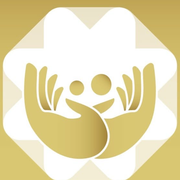
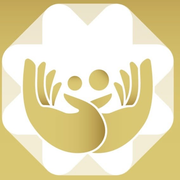
Ilustração oficial do logótipo em vez de recriação tipográfica
- Extraída a ilustração completa (símbolo + lettering original) do
  artwork de alta resolução, em duas variantes transparentes:
  branca para painéis dourados e dourada para fundos claros
- Hero mostra o artwork branco sobre o gradiente dourado — idêntico
  ao poster original da marca
- Footer e login usam a ilustração dourada, substituindo o lettering
  recriado tipograficamente
- Símbolo, favicon e apple-icon regenerados a partir da fonte
  de alta resolução
- Cartão "15 min" reposicionado para não sobrepor o nome

Claude-Session: https://claude.ai/code/session_01PeMQt7RPdpQtiDCUsibi7h

diff --git a/src/components/ui/Logo.tsx b/src/components/ui/Logo.tsx
@@ -1,6 +1,9 @@
 import Image from "next/image";
 import { cn } from "@/lib/utils";
 
+const LOCKUP_ALT =
+  "Clínica Marques dos Santos — Fisioterapia, Osteopatia e outras especialidades médicas";
+
 /** Símbolo oficial da marca — mãos que acolhem, branco sobre dourado. */
 export function LogoMark({ className }: { className?: string }) {
   return (
@@ -16,34 +19,32 @@ export function LogoMark({ className }: { className?: string }) {
 }
 
 /**
- * Lockup completo, recriado tipograficamente para ficar nítido em
- * qualquer fundo claro: símbolo + CLÍNICA + MARQUES DOS SANTOS + subtítulo.
+ * Ilustração oficial completa (símbolo + nome), extraída do artwork
+ * original — versão dourada para fundos claros.
  */
 export function LogoLockup({ className }: { className?: string }) {
   return (
-    <div className={cn("flex flex-col items-center text-center", className)}>
-      <LogoMark className="size-16 rounded-2xl shadow-soft" />
-      <p className="mt-5 text-sm font-light uppercase tracking-[0.5em] text-gold-600">
-        Clínica
-      </p>
-      <p className="mt-1 text-2xl font-bold uppercase tracking-[0.12em] text-gold-700">
-        Marques dos Santos
-      </p>
-      <p className="mt-1.5 text-[0.6rem] font-medium uppercase tracking-[0.18em] text-muted">
-        Fisioterapia, Osteopatia e outras especialidades médicas
-      </p>
-    </div>
+    <Image
+      src="/brand/lockup-tinted.png"
+      alt={LOCKUP_ALT}
+      width={900}
+      height={1018}
+      className={cn("h-auto w-64", className)}
+    />
   );
 }
 
-/** Artwork oficial completo (recorte do original), para painéis dourados. */
+/**
+ * Ilustração oficial completa em branco — para painéis dourados,
+ * onde as mãos ganham o dourado do fundo, como no artwork original.
+ */
 export function LogoArtwork({ className }: { className?: string }) {
   return (
     <Image
-      src="/brand/logo-lockup-gold.png"
-      alt="Clínica Marques dos Santos — Fisioterapia, Osteopatia e outras especialidades médicas"
-      width={1100}
-      height={1051}
+      src="/brand/lockup-white.png"
+      alt={LOCKUP_ALT}
+      width={900}
+      height={1018}
       className={cn("h-auto w-full", className)}
       priority
     />

diff --git a/src/components/sections/Hero.tsx b/src/components/sections/Hero.tsx
@@ -113,7 +113,7 @@ export function Hero() {
             transition={{ duration: 1.2, ease: EASE_CALM, delay: 0.2 }}
             className="absolute inset-0 flex items-center justify-center overflow-hidden rounded-[2.5rem] border border-white/70 bg-[linear-gradient(160deg,#a3833b_0%,#c6ab5a_45%,#d9c773_100%)] shadow-lift"
           >
-            <LogoArtwork className="max-w-[78%]" />
+            <LogoArtwork className="max-w-[66%] -translate-y-3" />
           </motion.div>
 
           <FloatingCard className="left-[-3rem] top-16" delay={0.7} drift>
@@ -142,7 +142,7 @@ export function Hero() {
             </div>
           </FloatingCard>
 
-          <FloatingCard className="bottom-10 left-4" delay={1}>
+          <FloatingCard className="bottom-6 left-[-2.5rem]" delay={1}>
             <div className="flex items-center gap-3">
               <span className="flex size-10 items-center justify-center rounded-xl bg-sage-100 text-sage-600">
                 <Clock className="size-5" aria-hidden />
